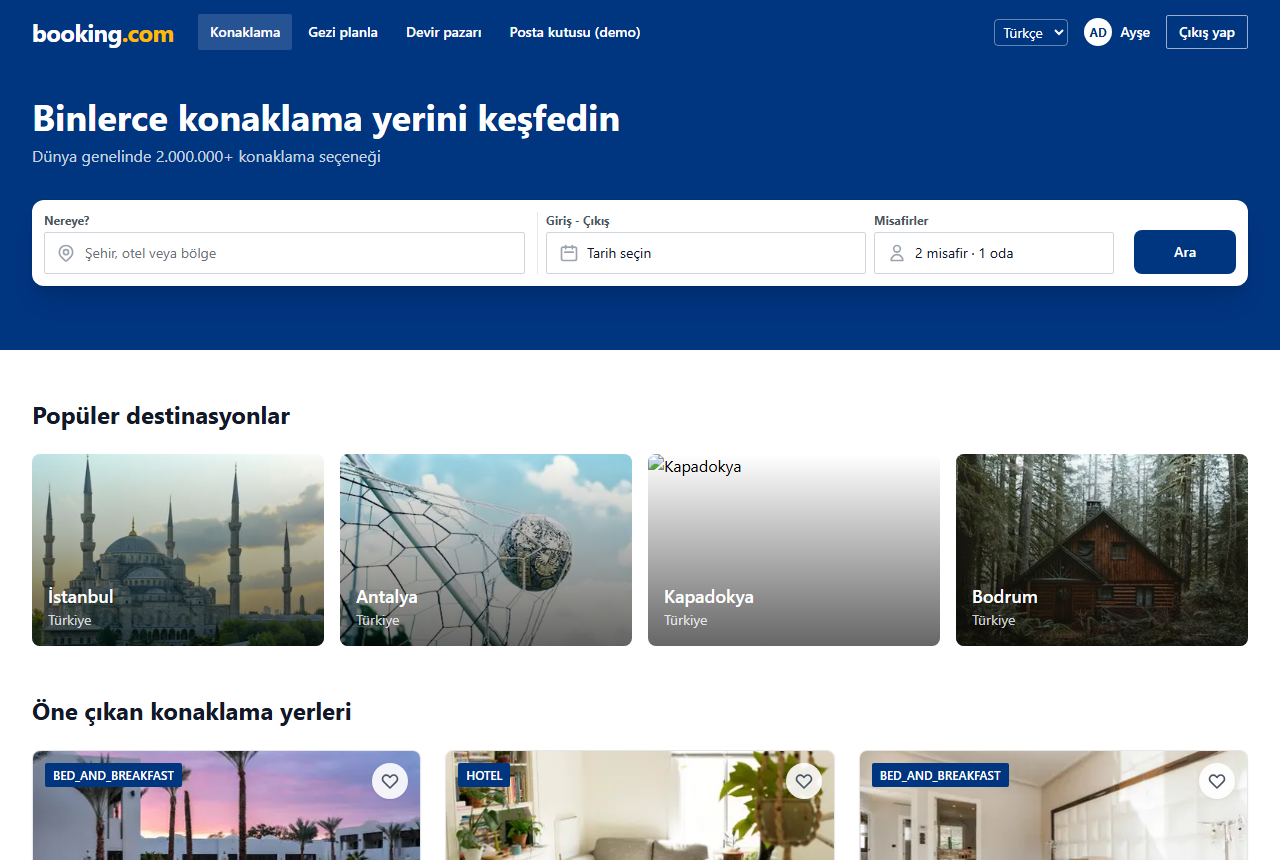
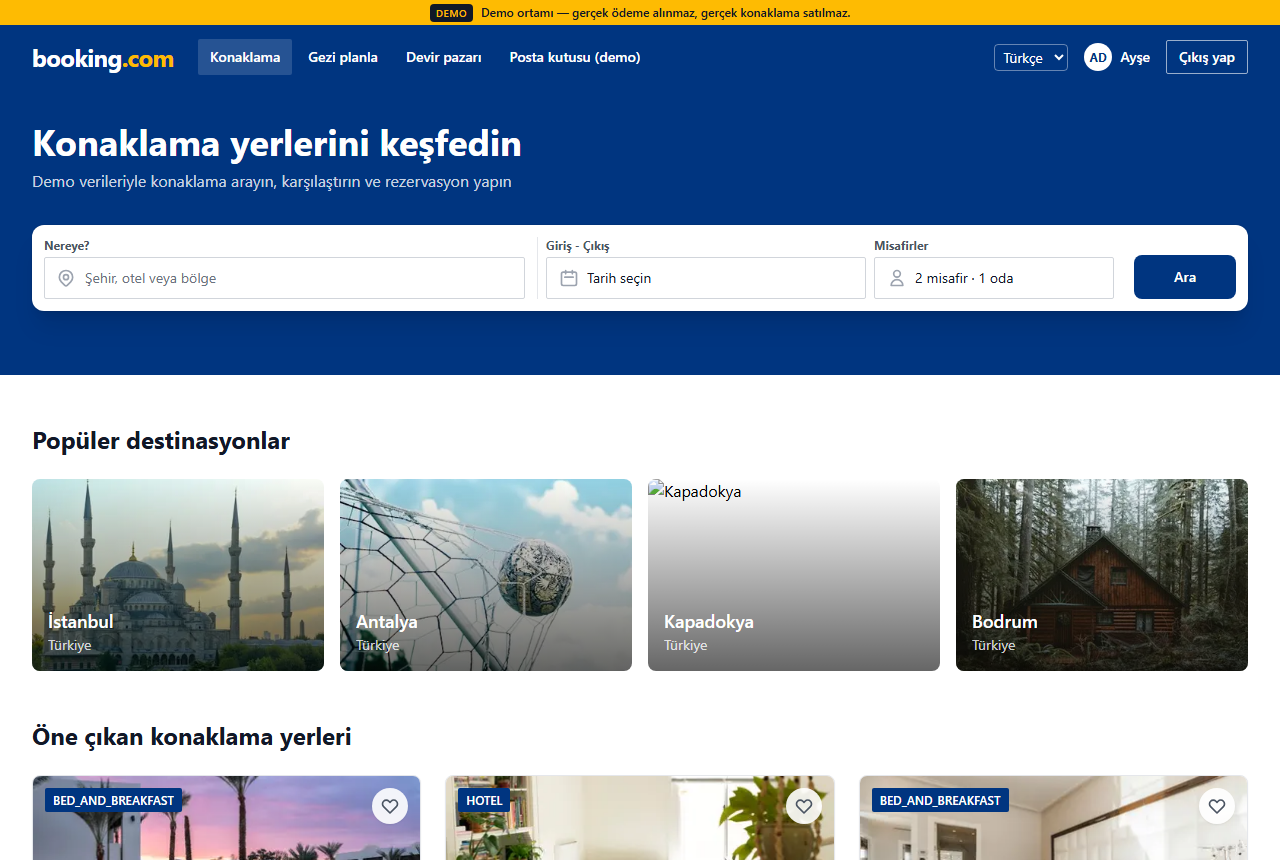
docs: add ADR 0018, refresh screenshots and close v3 F8
- ADR 0018: i18n ad alanları ve Intl biçimlendirme kararı.
- npm run docs:screenshots ile güncel ekran görüntüleri.
- CHANGELOG Unreleased F8 girdileri ve düzeltmeler; PLAN F8 işaretlendi.

diff --git a/CHANGELOG.md b/CHANGELOG.md
@@ -29,6 +29,10 @@ Bu dosyadaki tüm önemli değişiklikler burada belgelenir. Biçim [Keep a Chan
 - **v3 F7 — Kanal yöneticisi (P1-9, #21, ADR 0015):** `ical-poll` tekrarlı işi (ETag / `If-Modified-Since`, SSRF korumalı https, boyut/süre sınırı), ev sahibi abonelik uçları, besleme belirteci döndürme (`ChannelFeed.tokenVersion`), yalnız uyaran fiyat eşitliği kontrolü.
 - **v3 F7 — Gelir paneli (P1-5, ADR 0015):** `/host/revenue` doluluk, ADR, RevPAR ve SVG pickup grafiği; doluluk, varışa kalan süre, TR resmî tatilleri ve onaylı olaylardan katkı tablolu fiyat önerisi her zaman [taban, tavan] içinde (v3#5, fast-check); LLM yalnız Türkçe açıklamayı yazar (demo yedeği). Kabul fiyatı yazıp geceyi sabitler (`priceOverride`, motor ezmez), ret hiçbir şeyi değiştirmez.
 - **v3 F7 — Ölü kod (#17):** knip ile bulunan kullanılmayan dosya ve dışa aktarımlar kaldırıldı.
+- **v3 F8 — i18n (P1-12, #20, ADR 0018):** next-intl ile tr/en (varsayılan tr, `NEXT_LOCALE` çerezi), üst bardaki dil seçici, `Intl` tabanlı tarih/para/sayı biçimleme, anahtar eşitliği betiği (`npm run i18n:check`); bildirim e-postaları `User.locale`'e göre iki dilli.
+- **v3 F8 — UI + erişilebilirlik (P2-1):** Playwright + axe taraması (`tests/e2e/i18n.spec.ts`, ciddi/kritik ihlal 0 hedefi), PDP'de fiyat içgörüsü bileşeni.
+- **v3 F8 — Demo senaryoları (P2-2):** `scripts/demo-scenarios.ts` 7 tohumlu uçtan uca senaryo (100 paralel HOLD, idempotent ödeme, vergi dökümü, saat dilimi, MCP 401, gelir önerisi, belgesiz ilan); `docs/DEMO_SCRIPT.md`, `npm run demo:reset`.
+- **v3 F8 — Yük ve kaos (P2-3):** k6 `search`, `hold-spike`, `payment-race`, `llm-fallback` betikleri; `load/chaos.md` (Redis kesintisi, LLM zaman aşımı) ve `docs/perf/k6-results.md` gerçek ölçümlerle.
 
 ### Changed
 
@@ -40,6 +44,12 @@ Bu dosyadaki tüm önemli değişiklikler burada belgelenir. Biçim [Keep a Chan
 
 ### Fixed
 
+- Eşzamanlı ödeme onayında Postgres serileştirme çakışması (P2034) 3 denemede tükenip 500 dönüyordu (k6 payment-race: 18 onaydan 4'ü). Deneme sayısı ve üstel+rastgele geri çekilme yapılandırılabilir (`DB_SERIALIZABLE_RETRY_ATTEMPTS`, `DB_SERIALIZABLE_RETRY_BASE_MS`); tükenirse 409 `TRANSACTION_CONFLICT` + `Retry-After`.
+- Redis kesintisinde fail-open arama ~33 sn asılı kalıyordu; bağlantı koptuktan sonra komutlar hemen reddedilir ve her komut `REDIS_COMMAND_TIMEOUT_MS` ile sınırlıdır (kesinti altında arama p95 232 ms).
+- Süre dolum işi (`expire-holds`) sayacı tutarsız tek bir tutmada tüm toplu işlemi geri alıyor, hiçbir tutma bir daha düşmüyordu; tutarsız kayıt SAVEPOINT ile iadesiz EXPIRED yapılır ve loglanır (`booking_expire_inventory_drift_total`). Seed'deki PENDING rezervasyonlar artık `held` sayacını artırır.
+- MCP 401 yanıtı JSON-RPC `-32001` hata gövdesi ve `WWW-Authenticate` başlığı döner.
+- Fiyat kırılımında (`QuoteBreakdown`) `<dl>` içinde `<p>` vardı (axe `definition-list`, serious; ürün ve checkout sayfaları); dahil vergi ve kur notları listenin dışına alındı.
+- `demo:scenarios` betiğinin okuduğu `BASE_URL` ve `DAY_OFFSET` `.env.example`'da belgelenmemişti (regression #21 kırmızıydı).
 - Serbest metin araması kök ekleri, yazım hataları ve eş anlamlıları kaçırıyordu; hibrit RRF araması ile düzeltildi (v3#19).
 - Devredilen rezervasyonun iptal iadesi yeni sahibe değil ödemeyi yapan alıcıya gider (v3#4).
 

diff --git a/docs/adr/0018-i18n-namespaces-and-formatting.md b/docs/adr/0018-i18n-namespaces-and-formatting.md
@@ -1,0 +1,44 @@
+# ADR 0018 — i18n: ad alanlı mesajlar, yerel ayara duyarlı biçimleme ve iki dilli e-posta
+
+- Durum: Kabul edildi (v3, F8)
+- Tarih: 2026-09-25
+- İlgili: P1-12 (#20), ADR 0011 (tesis saat dilimi), ADR 0012 (vergi/FX)
+
+## Bağlam
+
+Arayüz metinleri bileşenlere gömülü Türkçe dizelerdi; `messages/{tr,en}.json` yalnızca gezinme
+ve teklif kırılımını kapsıyordu. Para ve tarihler bileşen bileşen `toLocaleString("tr-TR")`
+ile biçimleniyordu; e-postalar yalnız Türkçeydi. İngilizce arayüz, aynı anda birden çok
+kişinin (ve ajanın) çevirisine açık, çakışmasız bir yapı ve eksik anahtarı CI'da yakalayan bir
+denetim gerektiriyordu.
+
+## Karar
+
+- **Mesajlar ad alanlarına bölünür:** `messages/<locale>/<namespace>.json` (24 ad alanı:
+  `nav`, `search`, `booking`, `host`, …). `src/i18n/messages.ts` içindeki `NAMESPACES` listesi
+  tek doğruluk kaynağıdır; yükleyici her istekte yalnız seçili dilin dosyalarını dinamik içe
+  aktarır. URL öneki yoktur; dil `NEXT_LOCALE` çerezinde tutulur, varsayılan `tr`.
+- **Parite denetimi zorunludur:** `npm run i18n:check` (ve birim testi) her ad alanında tr/en
+  anahtar kümelerinin, ICU yer tutucularının birebir aynı olduğunu ve boş metin olmadığını
+  doğrular; diskte olup listede olmayan ad alanı da hatadır.
+- **Tek biçimleyici:** `createFormatter(locale)` (`src/lib/i18n/format.ts`) para (integer minor
+  unit → `Intl.NumberFormat`, para birimi basamaklarıyla), tarih, saat ve sayıyı biçimler.
+  İstemcide `useFormat()`, sunucuda `getFormat()` kullanılır. Yalın tarihler (`YYYY-MM-DD`)
+  UTC gece yarısı olarak yorumlanır, böylece tarayıcı saat dilimi bir günü kaydıramaz; tesis
+  saatleri açık `timeZone` ile biçimlenir (ADR 0011).
+- **Türkçe metin değişmez:** mevcut dizeler bayt bayt korunur (e2e seçicileri Türkçe metne
+  dayanır); İngilizce yalnız eklenir.
+- **E-postalar iki dillidir:** şablonlar `locale` parametresi alır (varsayılan `tr`); alıcı dili
+  `User.locale` sütunundan gönderim anında okunur. Sütun kayıtta ve her başarılı girişte
+  `NEXT_LOCALE` çerezinden güncellenir; bilinmeyen değer Türkçeye düşer.
+- **Sunucu hata mesajları ve LLM çıktıları Türkçe kalır:** API `message` alanı ve LLM
+  açıklamaları bu fazda çevrilmez; istemci bilinen hata kodlarını kendi çevirisiyle gösterir.
+
+## Sonuçlar
+
+- (+) Ad alanları paralel çeviriye çakışmasız açıktır; eksik anahtar derleme yerine CI'da,
+  anlaşılır bir mesajla yakalanır.
+- (+) Para/tarih biçimi tek yerde; `tr-TR` / `en-US` farkı testlerle sabitlenir.
+- (−) Sunucu tarafı doğrulama/iş kuralı hata mesajları İngilizce arayüzde Türkçe görünebilir.
+- (−) Dil tercihi yalnız giriş/kayıtta kalıcılaşır; oturum açıkken dil değiştirmek bir sonraki
+  girişe kadar e-posta dilini değiştirmez.

diff --git a/docs/PLAN.md b/docs/PLAN.md
@@ -57,7 +57,7 @@ Her faz sonunda kalite kapısı: `npm run lint` · `npm run typecheck` · `npm r
 
 ## v3 F8 — i18n, UI, demo, yük
 
-- [ ] P1-12 i18n (#20); P2-1 UI + a11y; P2-2 demo senaryoları; P2-3 yük/kaos; ekran görüntüleri
+- [x] P1-12 i18n (#20); P2-1 UI + a11y; P2-2 demo senaryoları; P2-3 yük/kaos; ekran görüntüleri
 
 ## v3 F9 — Dokümanlar + release
 
